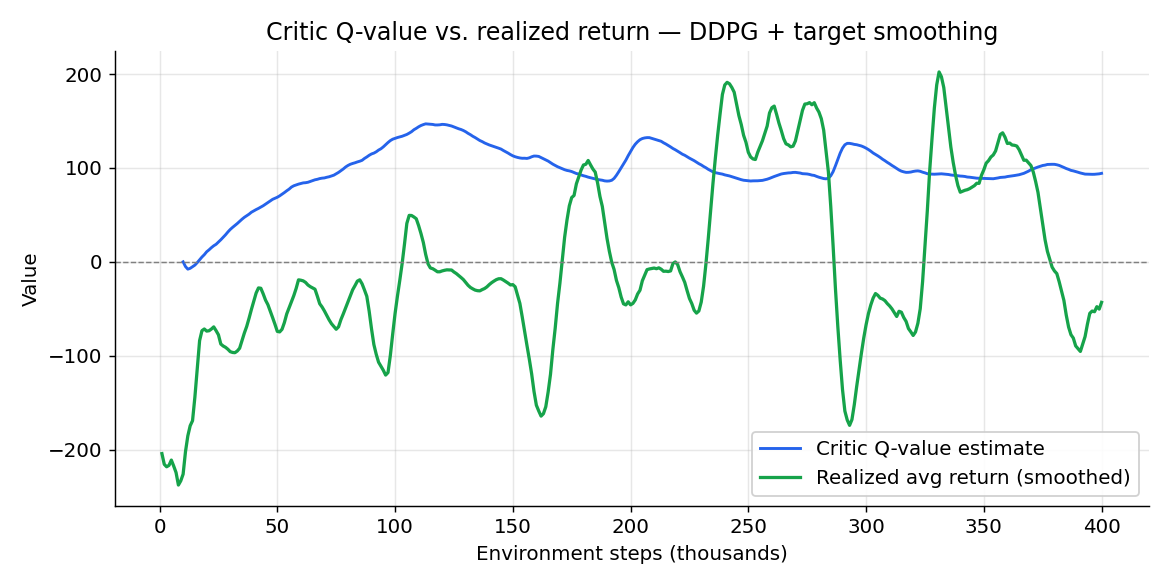
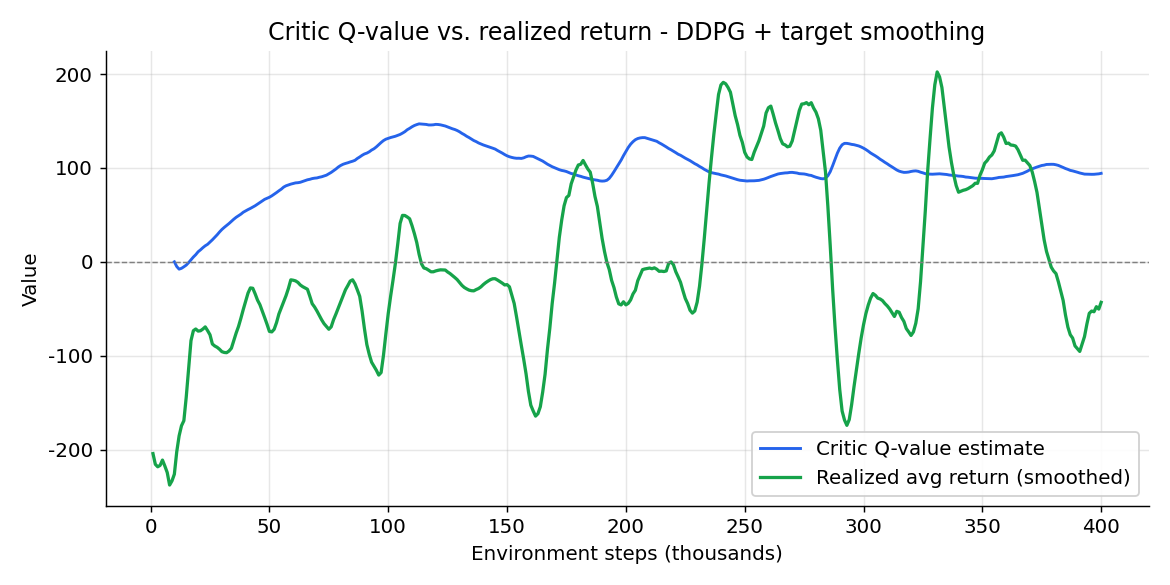
remove em dashes -

diff --git a/DDPG/utils/make_charts.py b/DDPG/utils/make_charts.py
@@ -1,7 +1,7 @@
 """Generate DDPG training charts (chart_01/02/03.png) from a local wandb run.
 
 Reads the metric history straight from a run's ``.wandb`` datastore file (works
-for offline runs too — no network needed) and writes three PNGs:
+for offline runs too - no network needed) and writes three PNGs:
 
   - chart_01: critic Q-value vs. realized return (the over-estimation story)
   - chart_02: actor & critic loss
@@ -58,7 +58,7 @@ def load_history(run_path: str) -> list[dict]:
             row = {}
             for it in rec.history.item:
                 # wandb stores keys either flat (`key`) or nested (`nested_key`,
-                # a repeated field) — join the latter with "/".
+                # a repeated field) - join the latter with "/".
                 nk = list(it.nested_key)
                 key = "/".join(nk) if nk else it.key
                 try:
@@ -101,9 +101,9 @@ def main() -> None:
 
     plt.rcParams.update({"figure.dpi": 130, "font.size": 11, "axes.grid": True,
                          "grid.alpha": 0.3, "axes.spines.top": False,
-                         "axes.spines.right": False})
+                         "axes.spines.right": False, "axes.unicode_minus": False})
 
-    # chart_01 — Q-value (critic estimate) vs realized return: the over-estimation story
+    # chart_01 - Q-value (critic estimate) vs realized return: the over-estimation story
     fig, ax = plt.subplots(figsize=(9, 4.5))
     ax.plot(ks, q, color=BLUE, lw=1.6, label="Critic Q-value estimate")
     ax.plot(ks, smooth(ret, args.smooth), color=GREEN, lw=1.8,
@@ -111,27 +111,27 @@ def main() -> None:
     ax.axhline(0, color="gray", lw=0.8, ls="--")
     ax.set_xlabel("Environment steps (thousands)")
     ax.set_ylabel("Value")
-    ax.set_title(f"Critic Q-value vs. realized return — {suffix}")
+    ax.set_title(f"Critic Q-value vs. realized return - {suffix}")
     ax.legend(loc="best", framealpha=0.9)
     fig.tight_layout(); fig.savefig(f"{args.out_dir}/chart_01.png"); plt.close(fig)
 
-    # chart_02 — actor & critic loss
+    # chart_02 - actor & critic loss
     fig, ax = plt.subplots(figsize=(9, 4.5))
     ax.plot(ks, closs, color=RED, lw=1.5, label="Critic loss (MSBE)")
     ax.set_xlabel("Environment steps (thousands)")
     ax.set_ylabel("Critic loss", color=RED)
     ax.tick_params(axis="y", labelcolor=RED)
     ax2 = ax.twinx(); ax2.grid(False)
-    ax2.plot(ks, aloss, color=ORANGE, lw=1.5, label="Actor loss  (−Q)")
-    ax2.set_ylabel("Actor loss  (−E[Q])", color=ORANGE)
+    ax2.plot(ks, aloss, color=ORANGE, lw=1.5, label="Actor loss  (-Q)")
+    ax2.set_ylabel("Actor loss  (-E[Q])", color=ORANGE)
     ax2.tick_params(axis="y", labelcolor=ORANGE)
-    ax.set_title(f"Actor & critic loss — {suffix}")
+    ax.set_title(f"Actor & critic loss - {suffix}")
     l1, la1 = ax.get_legend_handles_labels()
     l2, la2 = ax2.get_legend_handles_labels()
     ax.legend(l1 + l2, la1 + la2, loc="upper right", framealpha=0.9)
     fig.tight_layout(); fig.savefig(f"{args.out_dir}/chart_02.png"); plt.close(fig)
 
-    # chart_03 — episode return & length
+    # chart_03 - episode return & length
     fig, ax = plt.subplots(figsize=(9, 4.5))
     ax.plot(ks, ret, color=GREEN, lw=0.8, alpha=0.35, label="Avg return (raw)")
     ax.plot(ks, smooth(ret, args.smooth), color=GREEN, lw=2.0, label="Avg return (smoothed)")
@@ -144,7 +144,7 @@ def main() -> None:
     ax2.plot(ks, length, color=ORANGE, lw=1.2, alpha=0.7, label="Episode length")
     ax2.set_ylabel("Episode length", color=ORANGE)
     ax2.tick_params(axis="y", labelcolor=ORANGE)
-    ax.set_title(f"Episode return & length — {suffix}")
+    ax.set_title(f"Episode return & length - {suffix}")
     l1, la1 = ax.get_legend_handles_labels()
     l2, la2 = ax2.get_legend_handles_labels()
     ax.legend(l1 + l2, la1 + la2, loc="lower right", framealpha=0.9)

diff --git a/DDPG/utils/make_gif.py b/DDPG/utils/make_gif.py
@@ -1,7 +1,7 @@
 """Render a trained DDPG policy to an animated GIF.
 
 Runs several evaluation episodes with the deterministic policy, keeps the
-highest-returning ones, and stitches them into a compact GIF — handy for the
+highest-returning ones, and stitches them into a compact GIF - handy for the
 README demo. Must be run from the repository root so that the ``DDPG.*``
 imports resolve (the ``make_gif.sh`` wrapper handles this for you).
 

diff --git a/DDPG/README.md b/DDPG/README.md
@@ -21,17 +21,17 @@ DDPG is an off-policy actor-critic method for continuous action spaces that main
 - Integrated tqdm-aware logging, checkpoint helpers, and Weights & Biases tracking.
 
 ## What is DDPG?
-DDPG (Lillicrap et al., 2016) is an **off-policy, actor–critic** algorithm for environments with **continuous** action spaces. It blends two ideas:
+DDPG (Lillicrap et al., 2016) is an **off-policy, actor-critic** algorithm for environments with **continuous** action spaces. It blends two ideas:
 
-- **Deterministic Policy Gradient (DPG):** instead of a stochastic policy that outputs a *distribution* over actions, DDPG learns a **deterministic** actor $\mu_\theta(s)$ that outputs one specific action. This lets us push gradients of the value estimate *directly through the chosen action* — cheap and low-variance in high-dimensional continuous control.
+- **Deterministic Policy Gradient (DPG):** instead of a stochastic policy that outputs a *distribution* over actions, DDPG learns a **deterministic** actor $\mu_\theta(s)$ that outputs one specific action. This lets us push gradients of the value estimate *directly through the chosen action* - cheap and low-variance in high-dimensional continuous control.
 - **DQN-style stabilization:** like DQN, it uses an **experience replay buffer** (to decorrelate samples and reuse off-policy data) and **target networks** (slowly tracking copies that stabilize the bootstrapped learning target).
 
-The result is an actor–critic pair:
+The result is an actor-critic pair:
 
-- **Critic** $Q_\phi(s, a)$ — learns the action-value function (how good is action $a$ in state $s$).
-- **Actor** $\mu_\theta(s)$ — learns to output the action that *maximizes* the critic.
+- **Critic** $Q_\phi(s, a)$ - learns the action-value function (how good is action $a$ in state $s$).
+- **Actor** $\mu_\theta(s)$ - learns to output the action that *maximizes* the critic.
 
-Because the policy is deterministic, exploration must be injected by hand: at acting time we add noise to the action (this implementation uses Gaussian noise; the original paper used Ornstein–Uhlenbeck).
+Because the policy is deterministic, exploration must be injected by hand: at acting time we add noise to the action (this implementation uses Gaussian noise; the original paper used Ornstein-Uhlenbeck).
 
 ### How a single step works
 1. Observe $s$, act with $a = \mathrm{clip}\big(\mu_\theta(s) + \epsilon,\ a_{\text{low}},\ a_{\text{high}}\big)$, where $\epsilon \sim \mathcal{N}(0, \sigma^2)$.
@@ -46,7 +46,7 @@ $$
 J(\theta) = \mathbb{E}_{s \sim \rho^\beta}\big[\, Q^{\mu}(s, \mu_\theta(s)) \,\big],
 $$
 
-where $\rho^\beta$ is the state distribution induced by the (noisy) behaviour policy $\beta$ — i.e. the states sitting in the replay buffer.
+where $\rho^\beta$ is the state distribution induced by the (noisy) behaviour policy $\beta$ - i.e. the states sitting in the replay buffer.
 
 **Critic learning (Bellman / TD target).** The critic is trained to satisfy the Bellman equation. Using target networks $\mu_{\theta'}$ and $Q_{\phi'}$, we form the one-step target
 
@@ -118,7 +118,7 @@ $$
 | $a_{\text{scale}}$, $a_{\text{bias}}$ | action rescaling | `action_scale`, `action_bias` buffers in `Actor` |
 
 ## Environment
-The default benchmark is **`LunarLanderContinuous-v3`** — a continuous-control rocket-landing task whose two-dimensional action space (main and side thrusters) and dense shaping reward are a natural fit for DDPG's deterministic actor. It reliably converges to a successful-landing policy, making for a clean visual inference demo. `Pendulum-v1` is kept as an alternative config.
+The default benchmark is **`LunarLanderContinuous-v3`** - a continuous-control rocket-landing task whose two-dimensional action space (main and side thrusters) and dense shaping reward are a natural fit for DDPG's deterministic actor. It reliably converges to a successful-landing policy, making for a clean visual inference demo. `Pendulum-v1` is kept as an alternative config.
 
 ## Quickstart
 ```bash
@@ -134,7 +134,7 @@ python -m DDPG.main train --config DDPG/configs/lunarlander_continuous.yaml
 
 python -m DDPG.main demo --config DDPG/configs/lunarlander_continuous.yaml --model_path DDPG/checkpoints/best.pt
 ```
-Authenticate with WandB via `--wandb_key YOUR_KEY`, or export `WANDB_API_KEY` in your environment (the CLI flag takes precedence) — matching the PPO / SAC / TD3 / A3C convention. Checkpoints and the moving-average `best.pt` snapshot are written under the config's `checkpoint_dir`. **Always demo from `best.pt`, not the last checkpoint** — see [Training results & analysis](#training-results--analysis) for why.
+Authenticate with WandB via `--wandb_key YOUR_KEY`, or export `WANDB_API_KEY` in your environment (the CLI flag takes precedence) - matching the PPO / SAC / TD3 / A3C convention. Checkpoints and the moving-average `best.pt` snapshot are written under the config's `checkpoint_dir`. **Always demo from `best.pt`, not the last checkpoint** - see [Training results & analysis](#training-results--analysis) for why.
 
 ### Running with uv
 If you manage the project with [uv](https://github.com/astral-sh/uv), set up the environment once from the repository root:
@@ -180,24 +180,24 @@ YAML files in `DDPG/configs/` expose hyper-parameters:
 - **Inference**: default checkpoint path and number of evaluation episodes.
 
 Two LunarLanderContinuous configs are provided:
-- **`lunarlander_continuous.yaml`** — pure DDPG (no target smoothing). Useful for *seeing* the classic over-estimation failure (see below).
-- **`lunarlander_continuous_tuned.yaml`** — adds TD3-style target-policy smoothing (`target_policy_noise=0.2`, `target_noise_clip=0.5`) and a gentler critic LR (`3e-4`). This is the config used for the demo above.
+- **`lunarlander_continuous.yaml`** - pure DDPG (no target smoothing). Useful for *seeing* the classic over-estimation failure (see below).
+- **`lunarlander_continuous_tuned.yaml`** - adds TD3-style target-policy smoothing (`target_policy_noise=0.2`, `target_noise_clip=0.5`) and a gentler critic LR (`3e-4`). This is the config used for the demo above.
 
 Copy either (or `pendulum.yaml`) to tailor runs for other continuous control benchmarks.
 
 ## Training results & analysis
-Both configs were trained for **400k environment steps** on `LunarLanderContinuous-v3` (seed 42). The headline is a textbook illustration of why DDPG is famously unstable — and how target smoothing helps.
+Both configs were trained for **400k environment steps** on `LunarLanderContinuous-v3` (seed 42). The headline is a textbook illustration of why DDPG is famously unstable - and how target smoothing helps.
 
 | Run | Best 5-ep avg (train) | Deterministic eval (30 ep) | % solved (≥200) | Peak critic Q | Peak critic loss |
 |---|---|---|---|---|---|
 | Pure DDPG | 187.9 | **55 ± 115** | 20% | **330** | **258** |
 | DDPG + target smoothing | 259.7 | **213 ± 86** | **83%** | 147 | ~30 |
 
-**What happened with pure DDPG.** The policy learned to land within the first ~20k steps (its peak), then **collapsed**: the single critic's Q-value exploded to ~330 while realized returns stayed *negative* (a ~240-point over-estimation gap). The actor maximizes the critic, so once the critic became delusional the policy chased a fiction and degraded — ending up hovering until the 1000-step timeout rather than committing to a landing. This is exactly the over-estimation pathology that motivated TD3.
+**What happened with pure DDPG.** The policy learned to land within the first ~20k steps (its peak), then **collapsed**: the single critic's Q-value exploded to ~330 while realized returns stayed *negative* (a ~240-point over-estimation gap). The actor maximizes the critic, so once the critic became delusional the policy chased a fiction and degraded - ending up hovering until the 1000-step timeout rather than committing to a landing. This is exactly the over-estimation pathology that motivated TD3.
 
 **What the tuned run fixed.** Adding clipped noise to the target action ($\tilde a' = \mathrm{clip}(\mu_{\theta'}(s') + \mathrm{clip}(\epsilon,-c,c),\,a_{\text{low}},a_{\text{high}})$) and lowering the critic learning rate kept the Q-estimate calibrated (peak ~147, critic loss ~30 instead of 258). The result is a genuinely **solved** policy: 213 mean return with 83% of evaluation episodes ≥200.
 
-> **Even when tuned, DDPG remains high-variance**; the return curve still oscillates and the *final* checkpoint (step 400k) evaluates at only −40. The strong policy lives in `best.pt`, which is why `save_best` (rolling-average checkpointing) is essential for this algorithm. Always demo from `best.pt`, not the last checkpoint.
+> **Even when tuned, DDPG remains high-variance**; the return curve still oscillates and the *final* checkpoint (step 400k) evaluates at only -40. The strong policy lives in `best.pt`, which is why `save_best` (rolling-average checkpointing) is essential for this algorithm. Always demo from `best.pt`, not the last checkpoint.
 
 ### Training charts
 Charts below are from the tuned run (`DDPG/configs/lunarlander_continuous_tuned.yaml`).
@@ -206,7 +206,7 @@ Charts below are from the tuned run (`DDPG/configs/lunarlander_continuous_tuned.
   <img src="assets/chart_01.png" alt="Critic Q-value vs. realized return" width="720">
 </p>
 
-*Critic Q-value (blue) vs. realized return (green). The estimate stays bounded (~147) and tracks real returns — contrast with pure DDPG, where Q ran away to ~330 while returns stayed negative.*
+*Critic Q-value (blue) vs. realized return (green). The estimate stays bounded (~147) and tracks real returns - contrast with pure DDPG, where Q ran away to ~330 while returns stayed negative.*
 
 <p align="center">
   <img src="assets/chart_02.png" alt="Actor and critic loss" width="720">

diff --git a/DDPG/utils/README.md b/DDPG/utils/README.md
@@ -1,10 +1,10 @@
-# DDPG utils — README asset generators
+# DDPG utils - README asset generators
 
 Helpers that produce the demo assets in `DDPG/assets/`:
 
-- **`make_gif.py` / `make_gif.sh`** — render a trained policy to an animated GIF
+- **`make_gif.py` / `make_gif.sh`** - render a trained policy to an animated GIF
   (rolls out several deterministic episodes, keeps the best, stitches them).
-- **`make_charts.py` / `make_charts.sh`** — read a local wandb run and write the
+- **`make_charts.py` / `make_charts.sh`** - read a local wandb run and write the
   three training charts (`chart_01/02/03.png`).
 
 The `.sh` wrappers cd to the repo root, apply sensible defaults, and forward any
@@ -46,7 +46,7 @@ SDL_VIDEODRIVER=dummy python -m DDPG.utils.make_gif \
 | Flag | Default | Meaning |
 | --- | --- | --- |
 | `--config` | *(required)* | YAML config; provides `env_id`, network sizes, action bounds, etc. |
-| `--checkpoint` | *(required)* | `.pt` file to load. **Use `best.pt`, not the last checkpoint** — DDPG is high-variance and the final model is usually worse. |
+| `--checkpoint` | *(required)* | `.pt` file to load. **Use `best.pt`, not the last checkpoint** - DDPG is high-variance and the final model is usually worse. |
 | `--out` | *(required)* | Output GIF path (parent dirs are created). |
 | `--episodes` | `8` | How many episodes to roll out before selecting the best. |
 | `--keep-top` | `3` | How many of the highest-returning episodes to include. |
@@ -73,7 +73,7 @@ Any extra flags are forwarded to `make_gif.py`, e.g.:
 
 # Charts generator
 
-Reads a run's `.wandb` datastore file directly (works for **offline** runs too —
+Reads a run's `.wandb` datastore file directly (works for **offline** runs too -
 no network needed) and writes `chart_01.png` (critic Q vs. realized return),
 `chart_02.png` (actor & critic loss), and `chart_03.png` (return & length).
 
